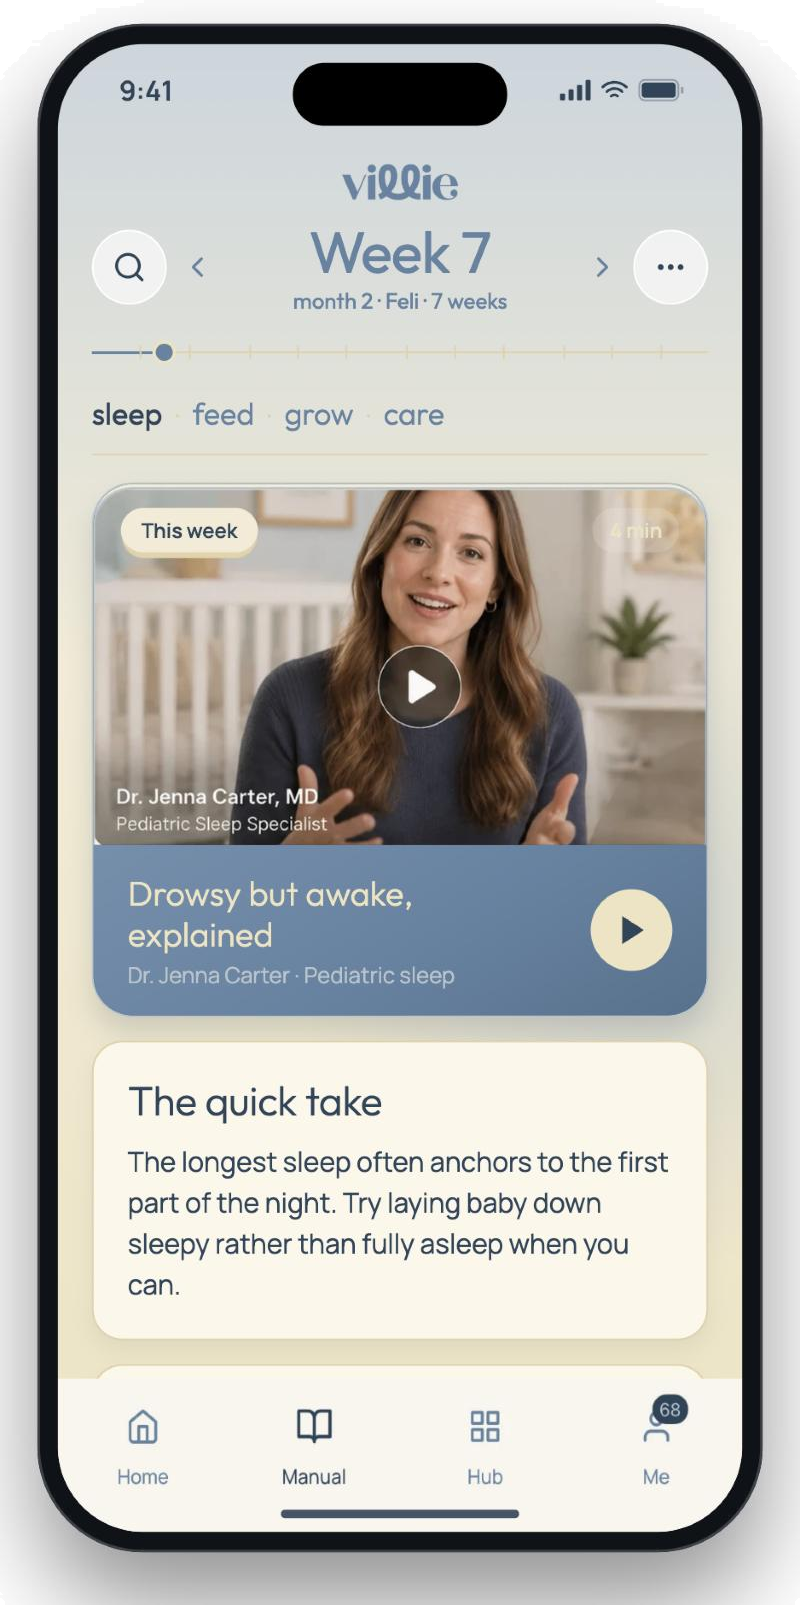
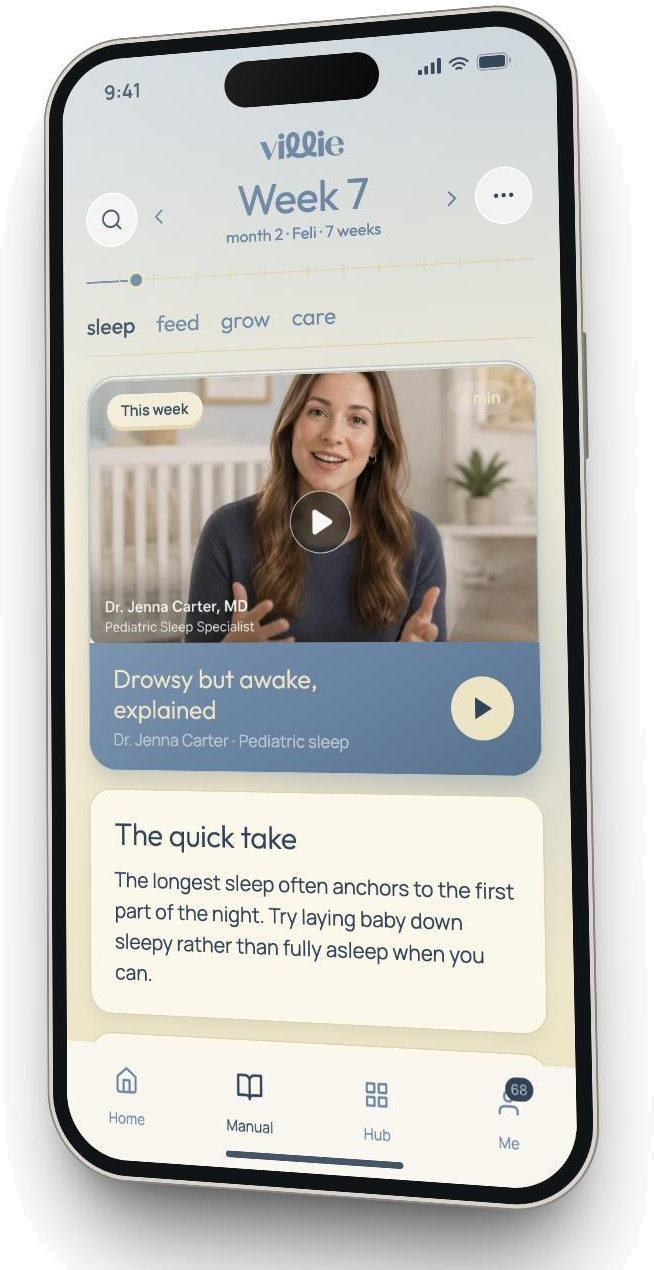
manual section: the phone turned a touch, the grid gone
Founder, 2026-11-03: the 52-cell grid was too much to get the gist, and
this is arguably the most important screen. The copy now sits beside the
phone, centred on it; under the copy, the first year as one line (the
same line the app draws), week 1 to week 52, filled to week 7. The phone
is a titanium frame turned about fifteen degrees, less slanted than the
reference render, with the real screen on it.

diff --git a/index.html b/index.html
@@ -118,23 +118,24 @@
     .manual { background:var(--ink); color:var(--champagne); }
     .manual h2 { color:var(--champagne); }
     .manual .body { color:var(--heather); }
-    .weeks { display:grid; grid-template-columns:repeat(13,1fr); max-width:620px; margin-top:46px;
-             border-top:1px solid var(--rule-dk); border-left:1px solid var(--rule-dk); }
-    .week { aspect-ratio:1; display:grid; place-items:center; font-size:11px; color:var(--heather);
-            border-right:1px solid var(--rule-dk); border-bottom:1px solid var(--rule-dk); }
-    .week.on { background:var(--champagne); color:var(--ink); font-weight:500; }
+    /* The first year as one line — the same line the app draws under the week:
+       a tick per month, filled to the week she's in. Says "one to fifty-two"
+       without a grid. */
+    .year { position:relative; max-width:440px; height:50px; margin-top:40px; }
+    .year .ticks { position:absolute; left:0; right:0; top:9px; height:9px;
+                   background:repeating-linear-gradient(90deg, var(--rule-dk) 0 1px, transparent 1px calc(100% / 12)); }
+    .year .track { position:absolute; left:0; right:0; top:13px; height:1px; background:var(--rule-dk); }
+    .year .fill { position:absolute; left:0; top:12.5px; height:1.5px; width:13.5%; background:var(--champagne); }
+    .year .knob { position:absolute; top:7px; left:calc(13.5% - 7px); width:14px; height:14px; border-radius:50%;
+                  background:var(--champagne); border:2px solid var(--ink); }
+    .year .l { position:absolute; top:30px; font-size:12.5px; color:var(--heather); }
+    .year .l.a { left:0; } .year .l.b { right:0; }
 
-    /* A week, opened, next to the full fifty-two. */
-    .wk-pair { display:grid; grid-template-columns:1fr 330px; gap:48px; align-items:start; margin-top:46px; }
-    .wk-pair .weeks { margin-top:0; }
-    /* A real screen in a device frame. The rounded corner here is a physical
-       phone, not template furniture — it is the one curve on the page. Only the
-       top of the screenshot is used: below the fold it carries a placeholder
-       clinician byline and clinical copy still pending review. */
+    /* The copy beside the phone, centred on it. The phone is the one picture. */
+    .wk-pair { display:grid; grid-template-columns:1fr 340px; gap:56px; align-items:center; }
     .phone { margin:0; }
     .phone img { display:block; width:100%; height:auto; }
-    .phone figcaption { font-size:13px; color:var(--heather); margin-top:14px; }
-    @media (max-width:860px) { .wk-pair { grid-template-columns:1fr; gap:28px; } .phone { max-width:340px; } }
+    @media (max-width:860px) { .wk-pair { grid-template-columns:1fr; gap:40px; } .phone { max-width:340px; } }
 
     /* Index rows, not cards. */
     .rows { border-top:1px solid var(--rule); margin-top:10px; max-width:920px; }
@@ -177,7 +178,6 @@
       :root { --gutter:22px; }
       .row { grid-template-columns:1fr; gap:8px; }
       .state { order:-1; }
-      .weeks { grid-template-columns:repeat(9,1fr); }
       section, .statement { padding:72px 0; }
       .hero { padding:64px 0 76px; }
     }
@@ -255,20 +255,18 @@
       <span class="loop" aria-hidden="true"></span>
       <div class="wrap cols">
         <div class="reveal">
-          <h2>The week-by-week didn't have to stop.</h2>
-          <p class="body">Pregnancy gave you a briefing every week. Then the baby arrived and it went quiet — right as the questions got harder. villie picks it up at week one and runs to fifty-two.</p>
-          <p class="body">Not a feed. Not a search. The week you're actually in.</p>
           <div class="wk-pair">
-            <div class="weeks" aria-hidden="true">
-            <div class="week">1</div><div class="week">2</div><div class="week">3</div><div class="week">4</div><div class="week">5</div><div class="week">6</div><div class="week on">7</div><div class="week">8</div><div class="week">9</div><div class="week">10</div><div class="week">11</div><div class="week">12</div><div class="week">13</div>
-            <div class="week">14</div><div class="week">15</div><div class="week">16</div><div class="week">17</div><div class="week">18</div><div class="week">19</div><div class="week">20</div><div class="week">21</div><div class="week">22</div><div class="week">23</div><div class="week">24</div><div class="week">25</div><div class="week">26</div>
-            <div class="week">27</div><div class="week">28</div><div class="week">29</div><div class="week">30</div><div class="week">31</div><div class="week">32</div><div class="week">33</div><div class="week">34</div><div class="week">35</div><div class="week">36</div><div class="week">37</div><div class="week">38</div><div class="week">39</div>
-            <div class="week">40</div><div class="week">41</div><div class="week">42</div><div class="week">43</div><div class="week">44</div><div class="week">45</div><div class="week">46</div><div class="week">47</div><div class="week">48</div><div class="week">49</div><div class="week">50</div><div class="week">51</div><div class="week">52</div>
+            <div>
+              <h2>The week-by-week didn't have to stop.</h2>
+              <p class="body">Pregnancy gave you a briefing every week. Then the baby arrived and it went quiet — right as the questions got harder. villie picks it up at week one and runs to fifty-two.</p>
+              <p class="body">Not a feed. Not a search. The week you're actually in.</p>
+              <div class="year" role="img" aria-label="The first year as a line, from week one to week fifty-two, with week seven marked.">
+                <span class="ticks"></span><span class="track"></span><span class="fill"></span><span class="knob"></span>
+                <span class="l a">week 1</span><span class="l b">week 52</span>
+              </div>
             </div>
-
             <figure class="phone">
-              <img src="app-manual-week.png" alt="The villie Manual on an iPhone at week 7: the week navigator, the four pillars (sleep, feed, grow, care), this week's video and the quick take." width="800" height="1605" />
-              <figcaption>Every week, from one to fifty-two.</figcaption>
+              <img src="app-manual-week.png" alt="The villie Manual on an iPhone at week 7: the week navigator, the four pillars (sleep, feed, grow, care), this week's video and the quick take." width="654" height="1270" />
             </figure>
           </div>
         </div>
